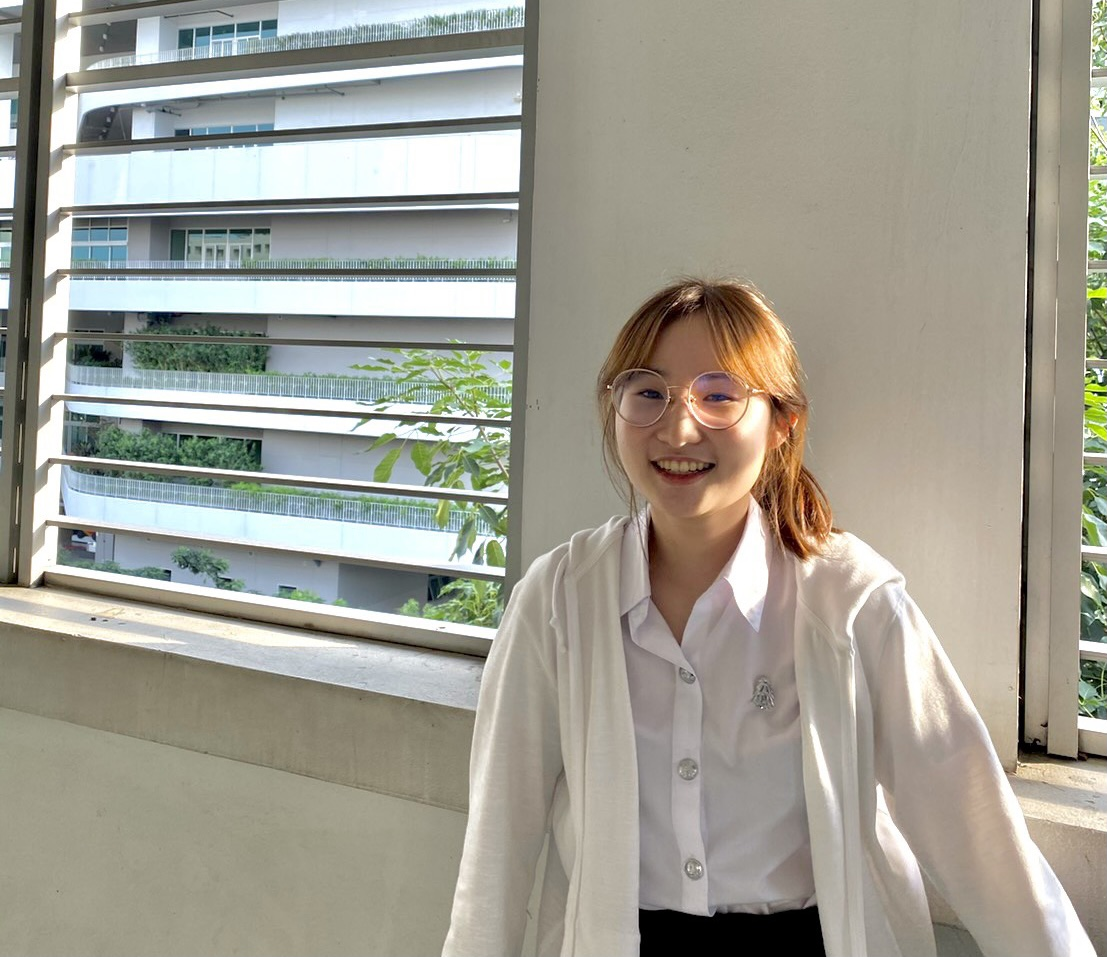
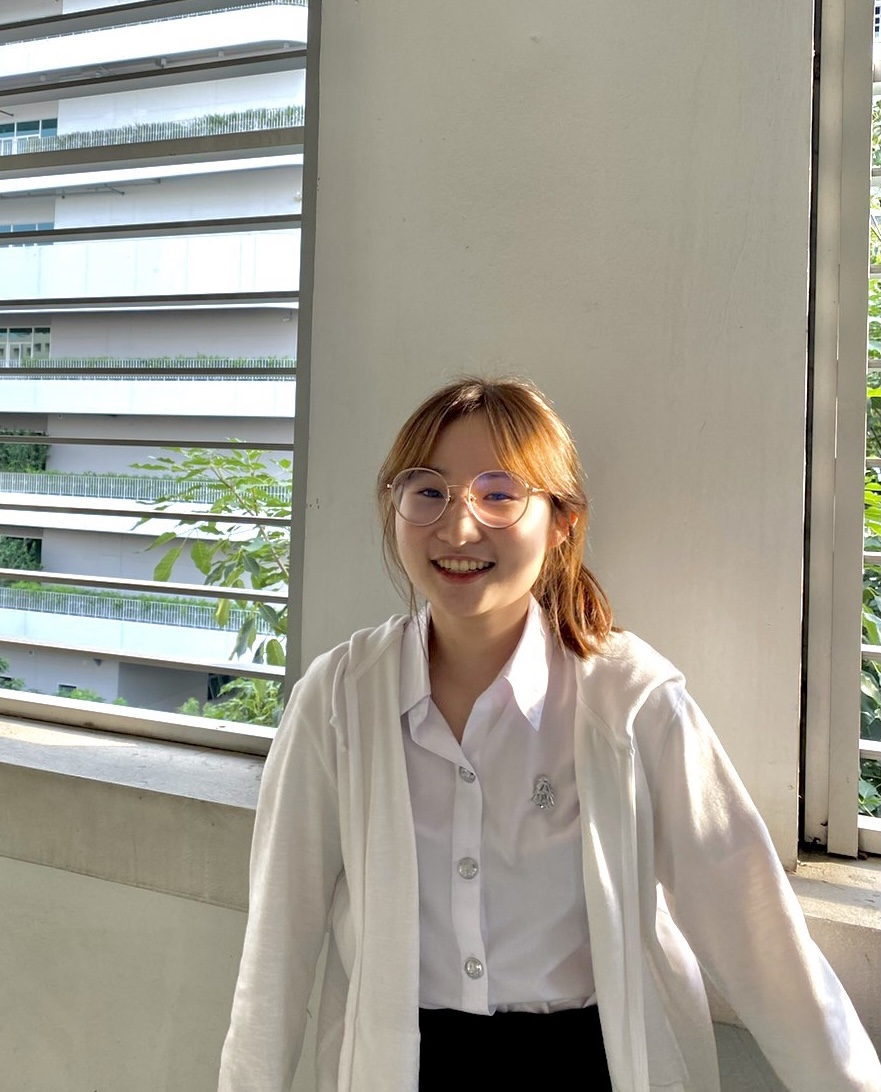
completed about me

diff --git a/gatsbynetlify/src/pages/about-me.js b/gatsbynetlify/src/pages/about-me.js
@@ -1,0 +1,75 @@
+import * as React from 'react';
+import Header from '../components/header';
+import '../styles/aboutme.css';
+import profile from '../images/profile2.jpg'
+
+const AboutMe = () => {
+    return (
+        <div>
+            <Header />
+            <div style={{ display: "grid", gridTemplateRows: "auto" }}>
+                <div style={{ display: "grid", gridTemplateColumns: "40% 60%" }}>
+                    <div>
+                        <div style={{paddingTop:"150px", paddingLeft:"150px"}}>
+                        <img src={profile} alt="" height="350" width="320" className="image" ></img>  
+                        </div>
+                        <div className="title" style={{paddingTop:"410px",paddingLeft: "150px"}}>Education</div>
+                        <div className="title" style={{paddingTop:"190px",paddingLeft: "150px"}}>Awards</div>
+                        <div className="title" style={{paddingTop:"360px",paddingLeft: "150px"}}>Techs &Tools</div>
+
+                    </div>
+                    <div>
+                        <div className="name" style={{paddingLeft:"5px"}}>Kaewket Saelee</div>
+                        <div className="intro">I am studying as an undergraduate in SIT at KMUTT. I have completed several projects such as web applications, mobile applications. I used to work on both frontend and backend. Also received awards in 2019-2020.<br></br> My strength is opening my mind and willing to learn new things to achieve targets and objectives.</div>
+                        <div style={{ display: "grid", gridTemplateColumns: "auto auto", paddingTop:"135px"}}>
+                            <div>
+                                <p className="year">2016 - 2018</p>
+                                <p className="school">Benjamarachalai School<br></br>gifted program<br></br><br></br>gpax : 3.80</p>
+                            </div>
+                            <div>
+                                <p className="year">2019 - Present</p>
+                                <p className="school">King Mongkut's University of Technology Thonburi<br></br>
+                                studying bachelor's degree (3rd year), computer science,<br></br> school of information techonology<br></br>
+                                gpax : 3.70</p>
+                            </div>
+                        </div>
+                        <div>
+                            <p className="award" style={{paddingTop:"75px"}}>First Runner-up Award ICT contest 12 </p>
+                            <p className="date">IOT (smart nodeMCU)</p>
+                            <p className="date">November 2019</p>
+                            <hr></hr>
+                        </div>
+                        <div>
+                            <p className="award">First Runner-up Award ICT contest 13 </p>
+                            <p className="date">AI (chatbot)</p>
+                            <p className="date">November 2020</p>
+                            <hr></hr>
+                        </div>
+                        <div style={{ display: "grid", gridTemplateColumns:"25% 25% 25% 25%", paddingTop:"40px", paddingBottom:"60px"}}>
+                            <div>
+                                <div className="box">NextJS</div>
+                                <div className="box">ReactJS</div>
+                                <div className="box">VueJS</div>
+                                <div className="box">NodeJS</div>
+                            </div>
+                            <div>
+                                <div className="box">HTML</div>
+                                <div className="box">CSS</div>
+                                <div className="box">GatsbyJS</div>
+                                <div className="box">Figma</div>
+                            </div>
+                            <div>
+                                <div className="box">Python</div>
+                                <div className="box">Java</div>
+                                <div className="box">JavaScript</div>
+                                <div className="box">Flutter</div>
+                            </div> 
+                        </div>
+                    </div>
+                </div>
+            </div>
+        </div>
+    )
+}
+
+export default AboutMe

diff --git a/gatsbynetlify/src/styles/aboutme.css b/gatsbynetlify/src/styles/aboutme.css
@@ -1,0 +1,70 @@
+.name{
+    padding: 190px 100px;
+    padding-bottom: 20px;
+    font-family: "Quicksand";
+    color: #2C2E43;
+    font-size: 70px;
+    font-weight: 500;
+}
+.image{
+    border-radius: 40px;
+}
+.intro{
+    font-family: "Quicksand";
+    color: #2C2E43;
+    font-size: 20px;
+    font-weight: 400;
+    padding-left: 10px;
+    padding-right: 120px;
+}
+.title{
+    font-family: "Quicksand";
+    color: #2C2E43;
+    font-size: 45px;
+    font-weight: 500;
+    padding-left: 400px;
+}
+.year{
+    font-family: "Quicksand";
+    color: #2C2E43;
+    font-size: 22px;
+    font-weight: 500;
+    padding-left: 10px;
+    padding-bottom: 0px;
+}
+.school{
+    font-family: "Quicksand";
+    color: #2C2E43;
+    font-size: 18px;
+    font-weight: 400;
+    padding-left: 10px;
+    padding-top: 0px;
+}
+.award{
+    font-family: "Quicksand";
+    color: #2C2E43;
+    font-size: 22px;
+    font-weight: 500;
+    padding-left: 10px;
+    padding-bottom: 0px;
+}
+.date{
+    font-family: "Quicksand";
+    color: #2C2E43;
+    font-size: 18px;
+    font-weight: 400;
+    padding-left: 10px;
+    padding-top: 0px;
+}
+.box{
+    width: fit-content;
+    display: block;
+    padding: 8px;
+    border-radius: 10px;
+    border: 1px solid lightgrey;
+    font-family: "Quicksand";
+    color: #2C2E43;
+    font-size: 18px;
+    font-weight: 400;
+    margin-bottom: 10px;
+}

diff --git a/gatsbynetlify/src/pages/about_int.js b/gatsbynetlify/src/pages/about_int.js
@@ -2,11 +2,11 @@ import * as React from 'react';
 import '../styles/about_int.css';
 const AboutIntro = () => {
     return(
-    <div style={{ display:"flex", flexFlow:"column",alignItems:"center",padding:"100px 100px", paddingBottom:"200px"}}>
+    <div style={{ display:"flex", flexFlow:"column",alignItems:"center",padding:"200px 100px", paddingBottom:"200px"}}>
         <div className="txt"> I like to create web applications that has good user-interface</div>
         <div className="txt">and user-experience. And I always open my mind </div>
         <div className="txt">and willing to learn new things to achieve the goals.</div>
-        <a href="" className="round-button">About me</a>
+        <a href="/about-me" className="round-button">About me</a>
     </div>
     )
 }

diff --git a/gatsbynetlify/src/components/header.js b/gatsbynetlify/src/components/header.js
@@ -8,12 +8,12 @@ const Header = () => {
       <AppBar className="appbar" position="fixed">
         <Toolbar>
         <div style={{display:"flex", paddingLeft:"45px", paddingTop: "15px"}}>
-          <p className="header_txt">
+          <a href="/" className="header_txt">
               Home
-          </p>
+          </a>
           <div style={{display:"flex", paddingLeft:"650px"}}>
-              <p className="header_txt">My works</p>
-              <p className="header_txt">About me</p>
+              <a href="/" className="header_txt">My works</a>
+              <a href="/about-me"className="header_txt">About me</a>
               <ContactMenu />
           </div>
         </div>

diff --git a/gatsbynetlify/src/pages/works.js b/gatsbynetlify/src/pages/works.js
@@ -73,7 +73,7 @@ scrollZoom();
 
 
     return (
-      <div maxWidth="lg" style={{backgroundColor:"#F4F7FB", paddingBottom:"200px", padding:"100px", paddingTop:"50px"}}>
+      <div maxWidth="lg" style={{backgroundColor:"#F4F7FB", paddingBottom:"150px", padding:"100px", paddingTop:"80px"}}>
         <div className="container" style={{display:"grid", gridTemplateColumns:"45% 55%"}}>
             <div>
               <h2 className="heading">All of My works</h2>

diff --git a/gatsbynetlify/src/styles/index.css b/gatsbynetlify/src/styles/index.css
@@ -29,7 +29,7 @@
 
 section{width:100%; max-width:960px; margin:0 auto;}
 
-.cluster{position:relative; width:100%; max-width:874px; height:792px; margin:100px auto; background-color:transparent; padding-bottom:100px;}
+.cluster{position:relative; width:100%; max-width:874px; height:792px; margin:100px auto; background-color:transparent; padding-bottom:120px;}
 
 .clusterPieces{position:absolute;}
 

diff --git a/gatsbynetlify/src/styles/about_int.css b/gatsbynetlify/src/styles/about_int.css
@@ -27,7 +27,7 @@
 
 .txt{
     font-weight: 500;
-    font-size: 24px;
+    font-size: 26px;
     font-family: "Quicksand";
     padding-left: 5px;
     padding-right: 28px;

diff --git a/gatsbynetlify/src/styles/header.css b/gatsbynetlify/src/styles/header.css
@@ -8,4 +8,5 @@
     font-family: "Quicksand";
     font-weight: bold;
     padding-top: 20px;
+    text-decoration: none;
 }
